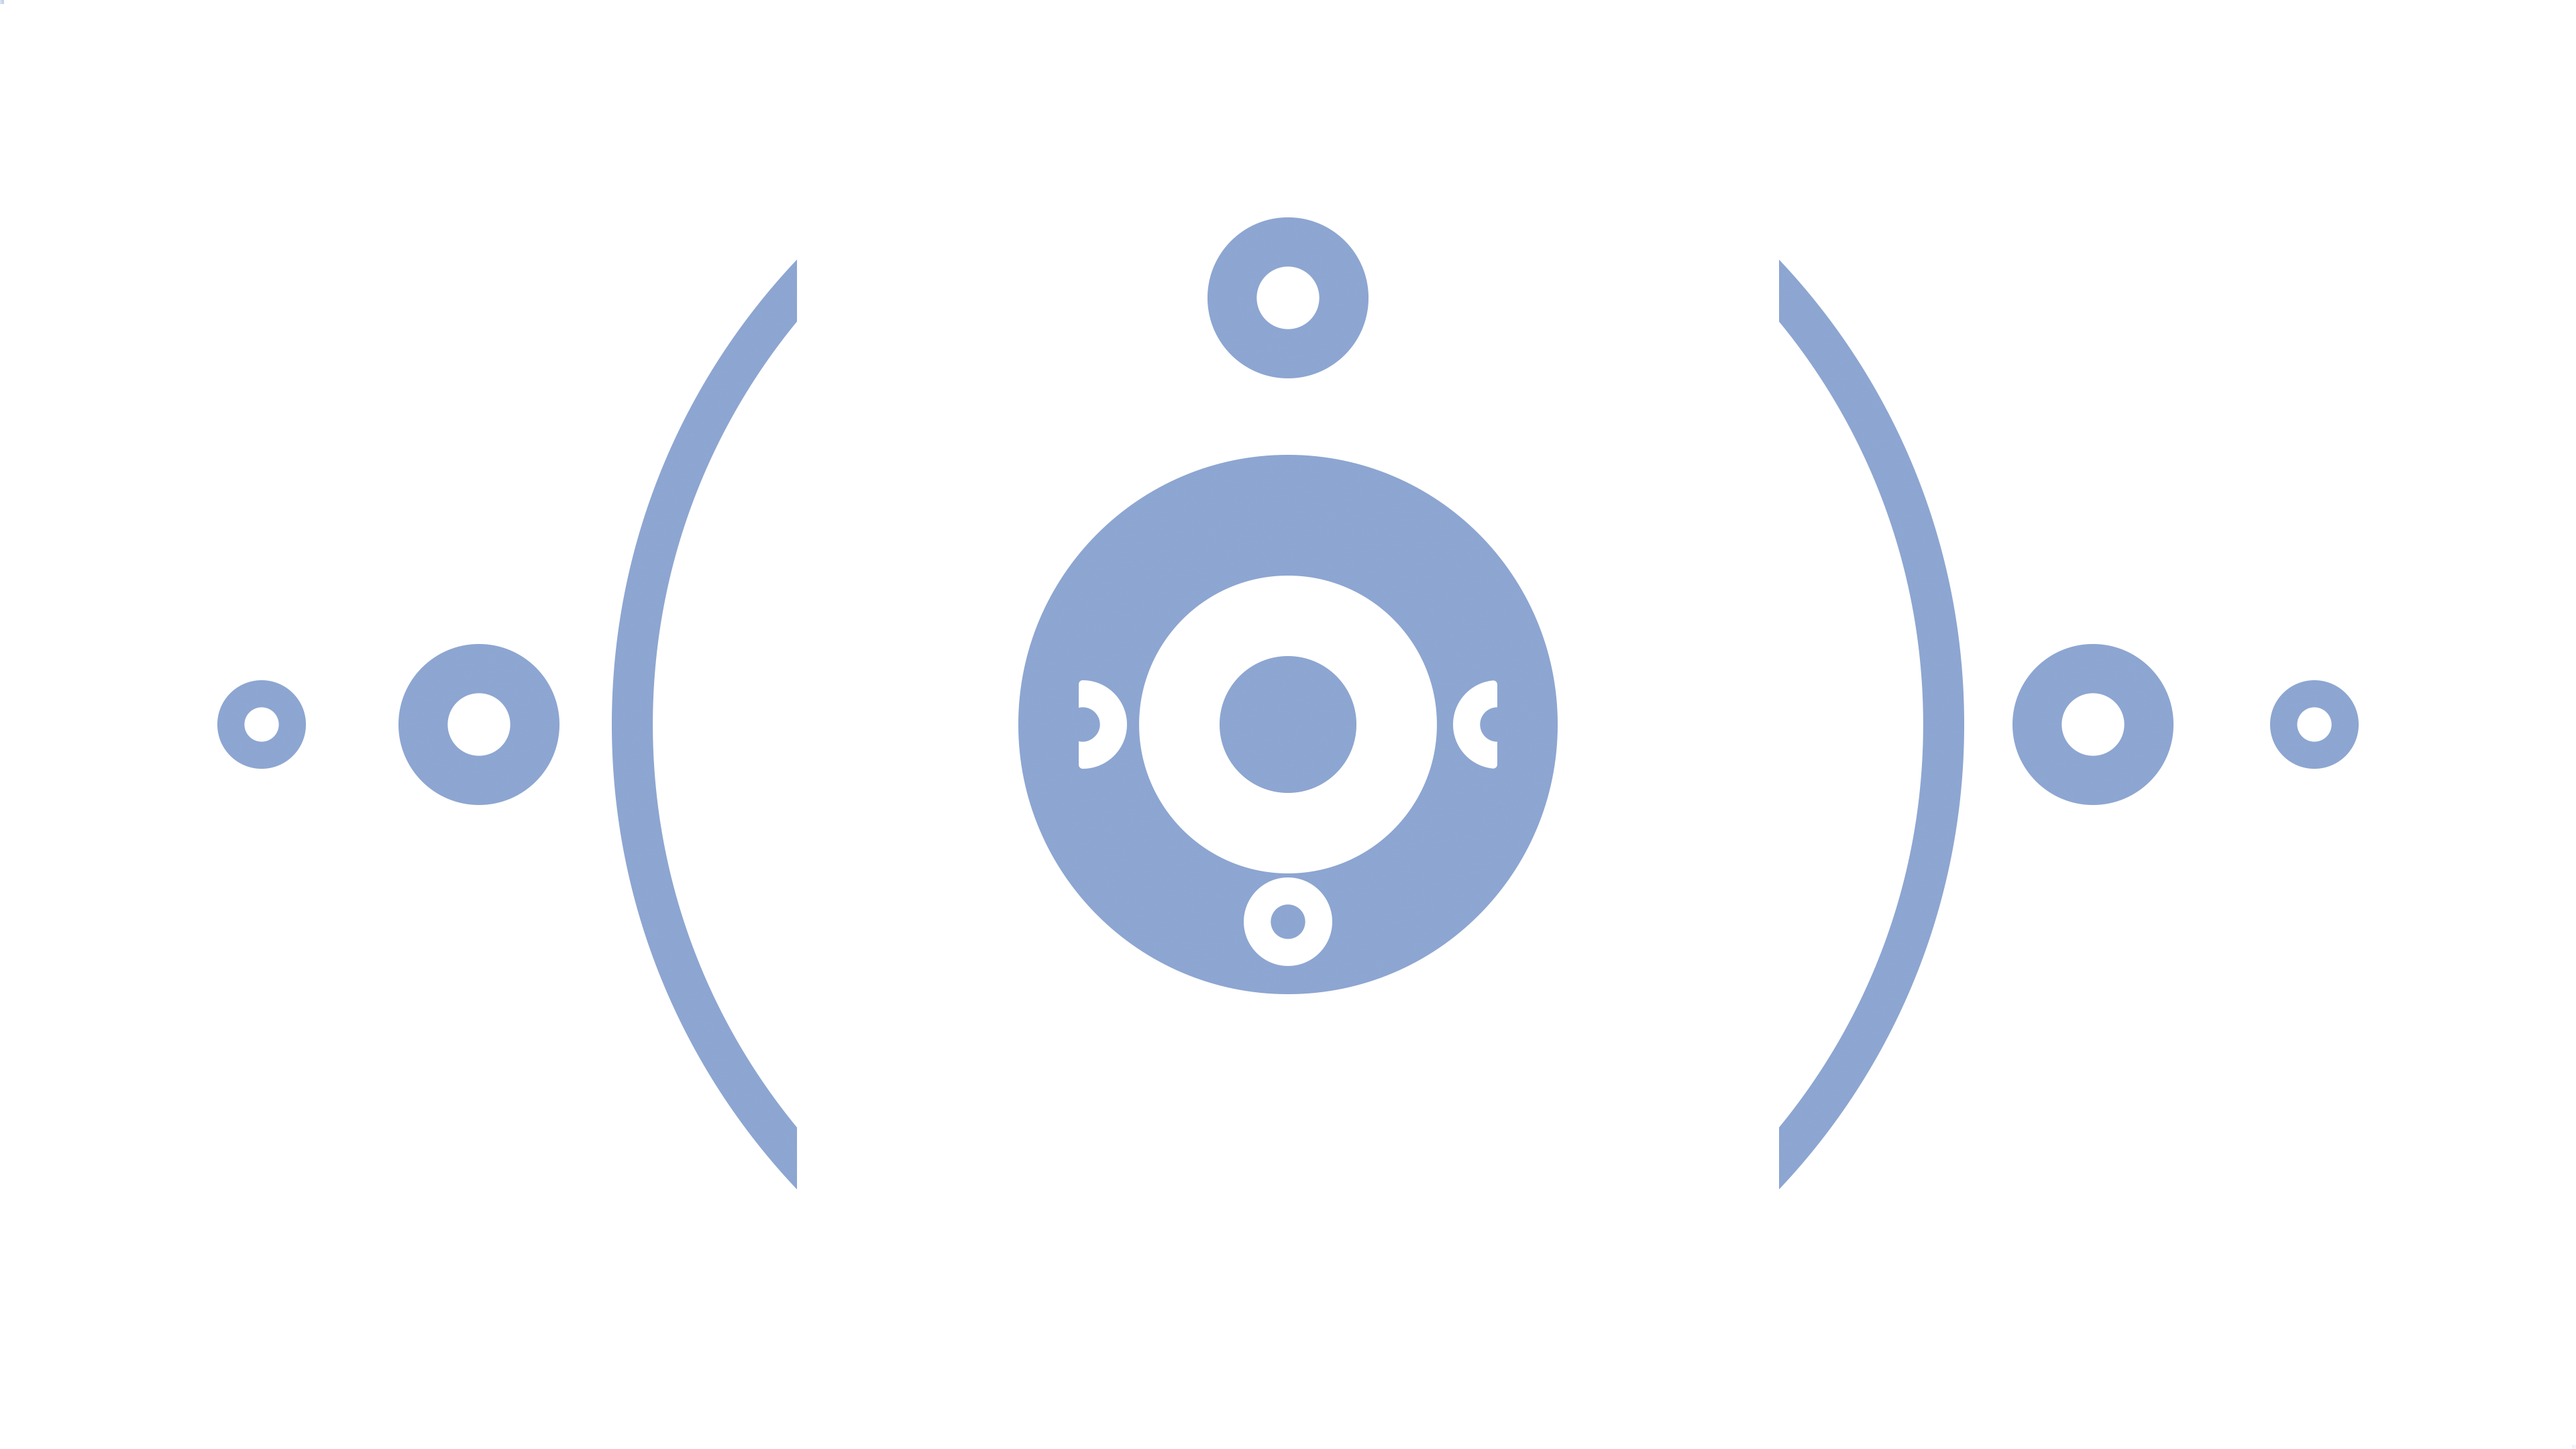
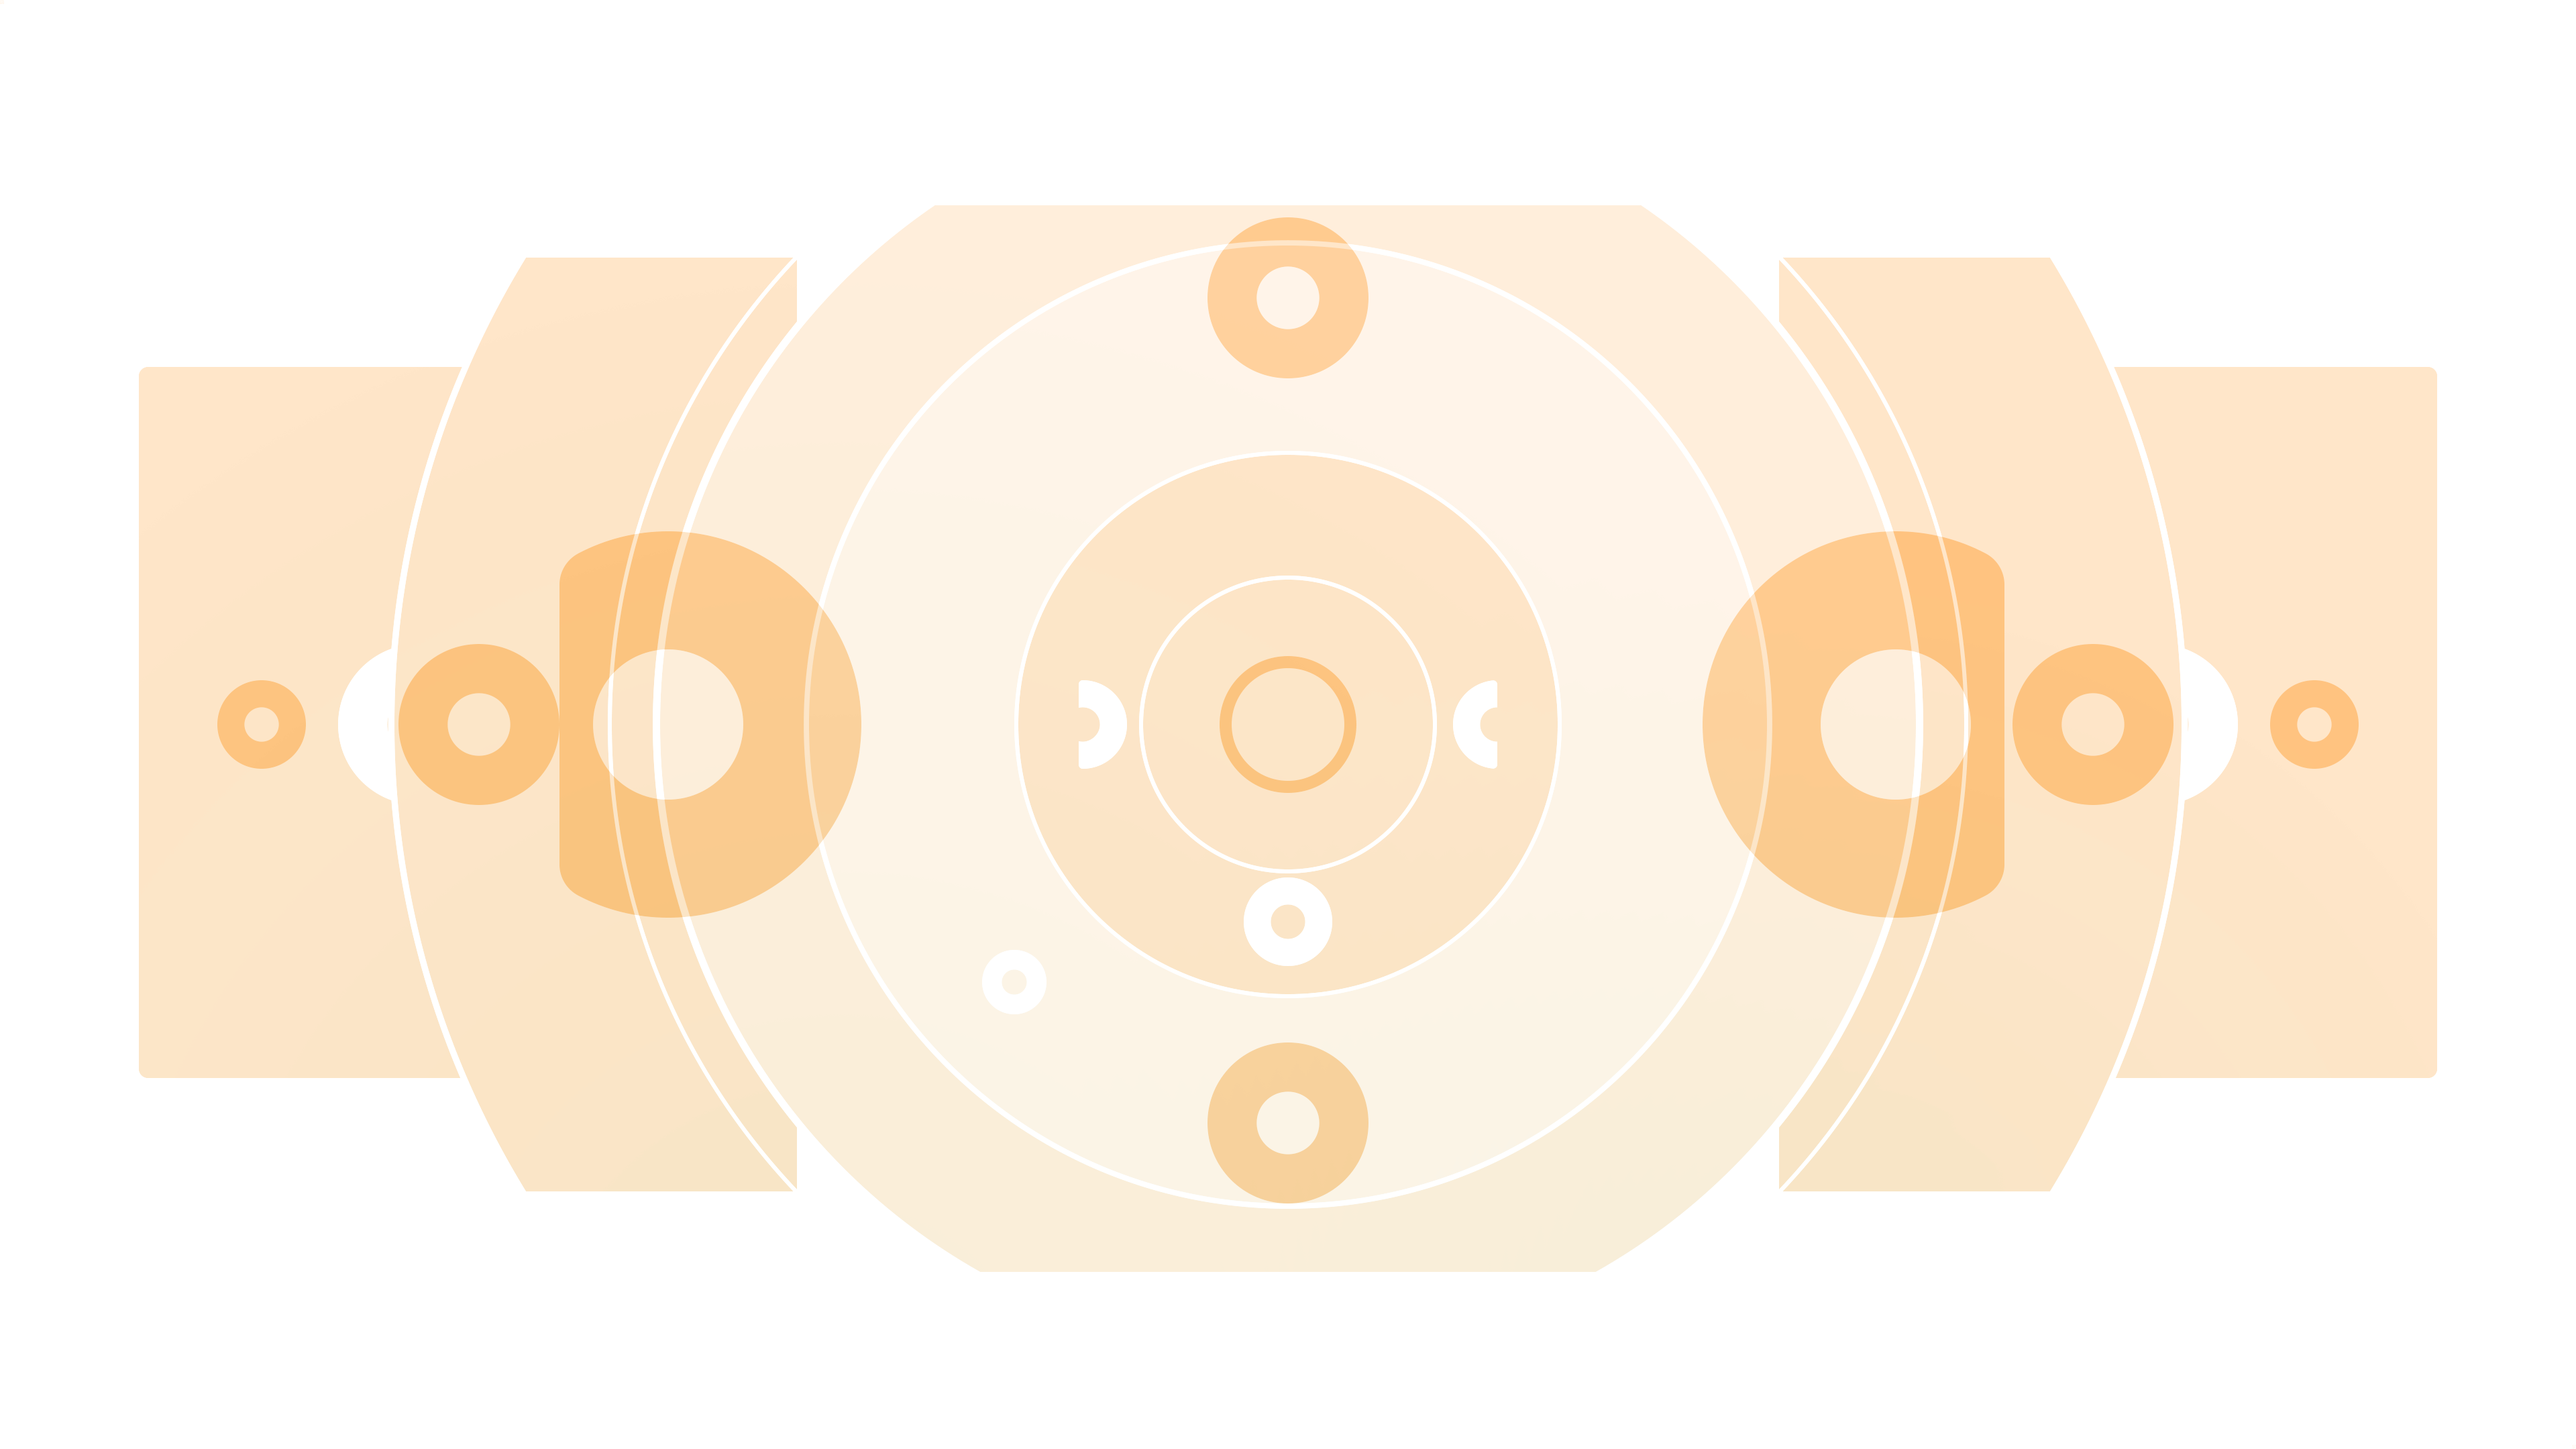
updated

diff --git a/css/style.css b/css/style.css
@@ -24,13 +24,13 @@ body {
     /* text-align: center; */
   }
 
-#type {
+#type1 {
     width: 100%;
     height: 100%;
     background-size: contain;
     background-position: center;
     background-repeat: no-repeat;
-    background-image: url("../images/type.png");
+    background-image: url("../images/type1.png");
     filter: brightness(130%);
   }
 
@@ -41,17 +41,16 @@ body {
     background-position: center;
     background-repeat: no-repeat;
     background-image: url("../images/lines.png");
-    filter: brightness(120%);
+    filter: brightness(130%);
   }
 
-#grids {
+#grids2 {
     width: 100%;
     height: 100%;
     background-size: contain;
     background-position: center;
     background-repeat: no-repeat;
-    background-image: url("../images/grids.png");
-    filter: brightness(200%);
+    background-image: url("../images/grids2.png");
   }
 
 #windows {
@@ -62,7 +61,6 @@ body {
     background-repeat: no-repeat;
     background-image: url("../images/windows.png");
     opacity: 80%;
-    filter: brightness(70%);
   }
 
 #retical {
@@ -72,7 +70,7 @@ body {
     background-position: center;
     background-repeat: no-repeat;
     background-image: url("../images/retical.png");
-    filter: brightness(140%);
+    filter: brightness(130%);
   }
 
 #noise {
@@ -82,5 +80,58 @@ body {
     background-position: center;
     background-repeat: no-repeat;
     background-image: url("../images/noise.png");
-    opacity: 0.6;
+    opacity: 0.4;
   }
+
+  #type2 {
+    width: 100%;
+    height: 100%;
+    background-size: cover;
+    background-position: center;
+    background-repeat: no-repeat;
+    background-image: url("../images/type2.png");
+  }
+
+  #type4 {
+    width: 100%;
+    height: 100%;
+    background-size: cover;
+    background-position: center;
+    background-repeat: no-repeat;
+    background-image: url("../images/type4.png");
+    filter: brightness(130%);
+  }
+
+  #grids1 {
+    width: 100%;
+    height: 100%;
+    background-size: cover;
+    background-position: center;
+    background-repeat: no-repeat;
+    background-image: url("../images/grids1.png");
+    filter: brightness(110%);
+  }
+
+  #ui1 {
+    width: 100%;
+    height: 100%;
+    background-size: cover;
+    background-position: center;
+    background-repeat: no-repeat;
+    background-image: url("../images/ui1.png");
+    filter: brightness(110%);
+  }
+
+  #ui2 {
+    width: 100%;
+    height: 100%;
+    background-size: cover;
+    background-position: center;
+    background-repeat: no-repeat;
+    background-image: url("../images/ui2.png");
+    filter: brightness(150%);
+  }
+
+/* #type4:hover {
+    filter: brightness(500%);
+  } */

diff --git a/index.html b/index.html
@@ -9,11 +9,16 @@
   </head>
   <body>
     <div id="scene">
-        <div id="windows" data-depth="0.75"></div>
-        <div id="grids" data-depth="0.8"></div>
-        <div id="retical" data-depth="0.85"></div>
-        <div id="lines" data-depth="0.9"></div>
-        <div id="type" data-depth="1"></div>
+      <div id="type1" data-depth="0.1"></div>
+      <div id="grids1" data-depth="0.15"></div>  
+        <div id="grids2" data-depth="0.2"></div>
+        <div id="windows" data-depth="0.25"></div>
+        <div id="lines" data-depth="0.3"></div>
+        <div id="ui1" data-depth="0.43"></div>
+        <div id="type2" data-depth="0.45"></div>
+        <div id="ui2" data-depth="0.47"></div>
+        <div id="type4" data-depth="0.48"></div>
+        <div id="retical" data-depth="0.5"></div>
         <div id="noise"></div>
     </div>
   </body>
